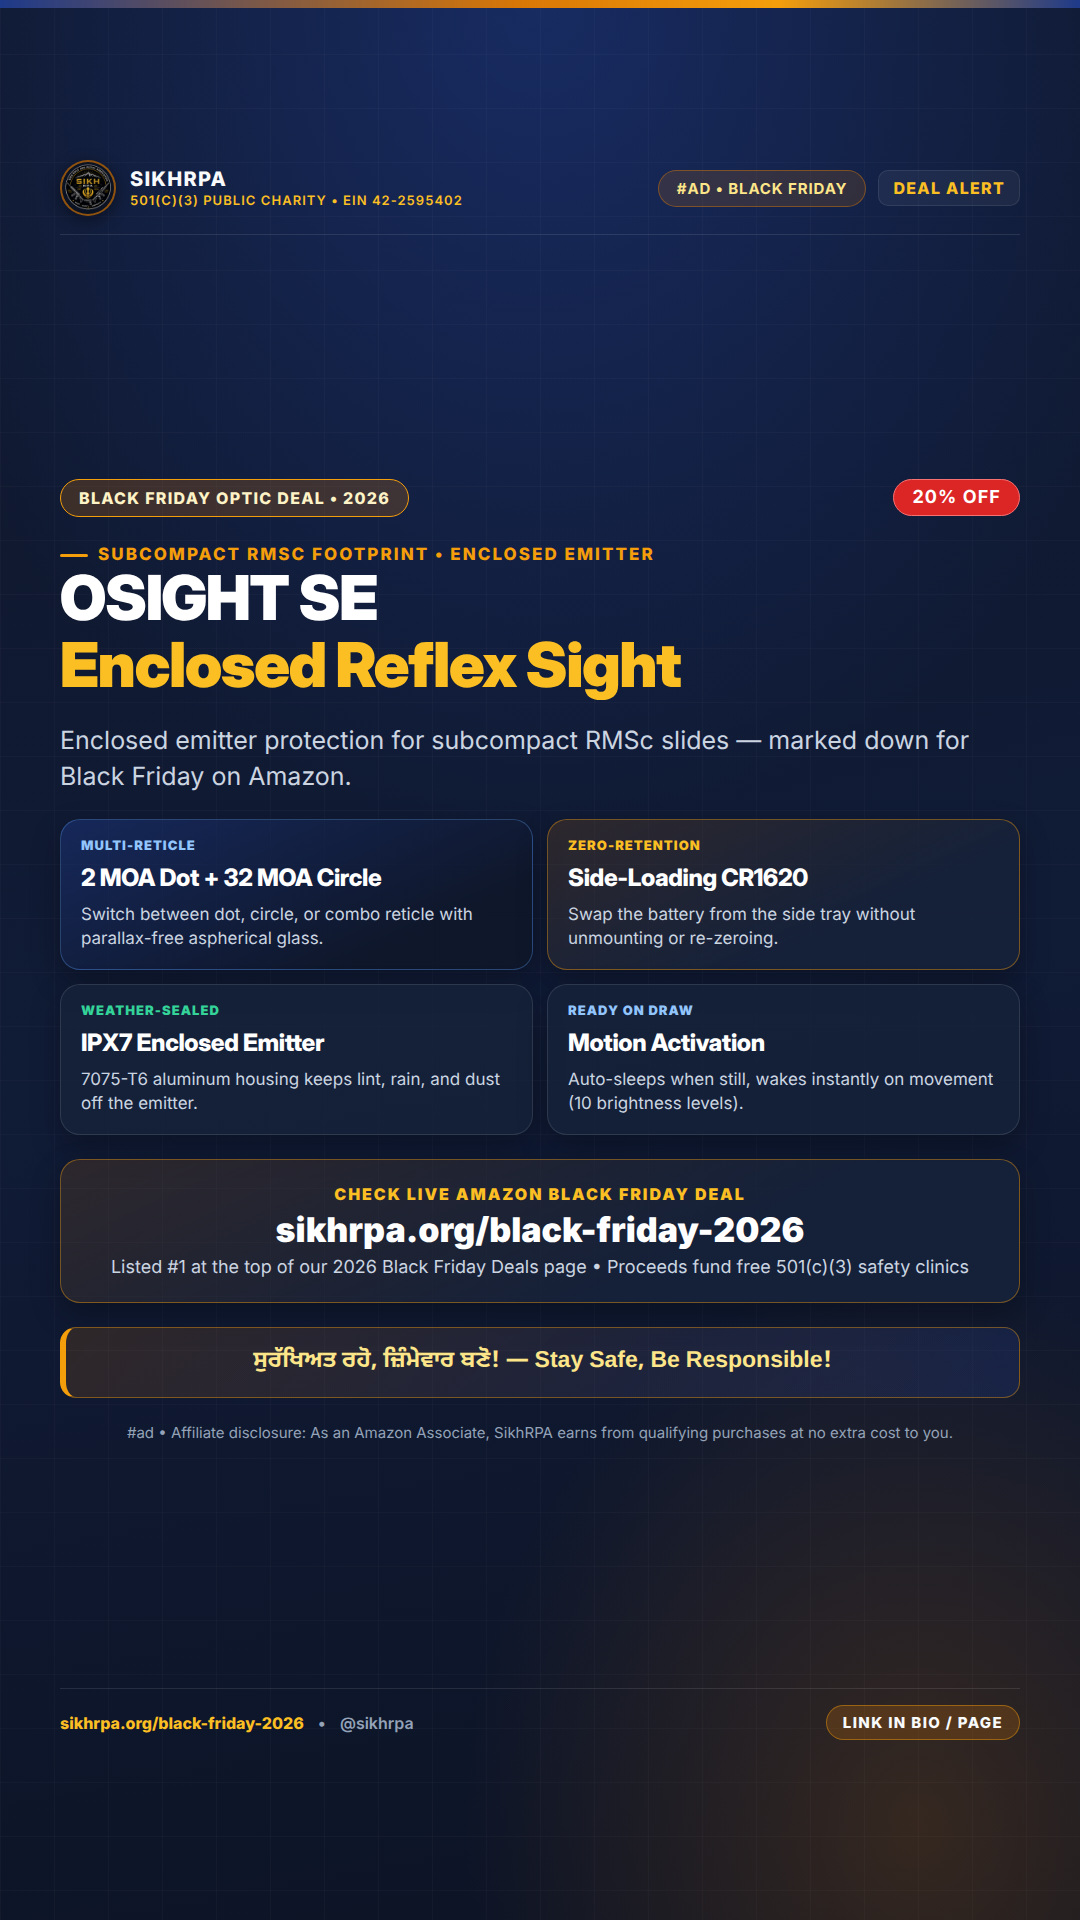
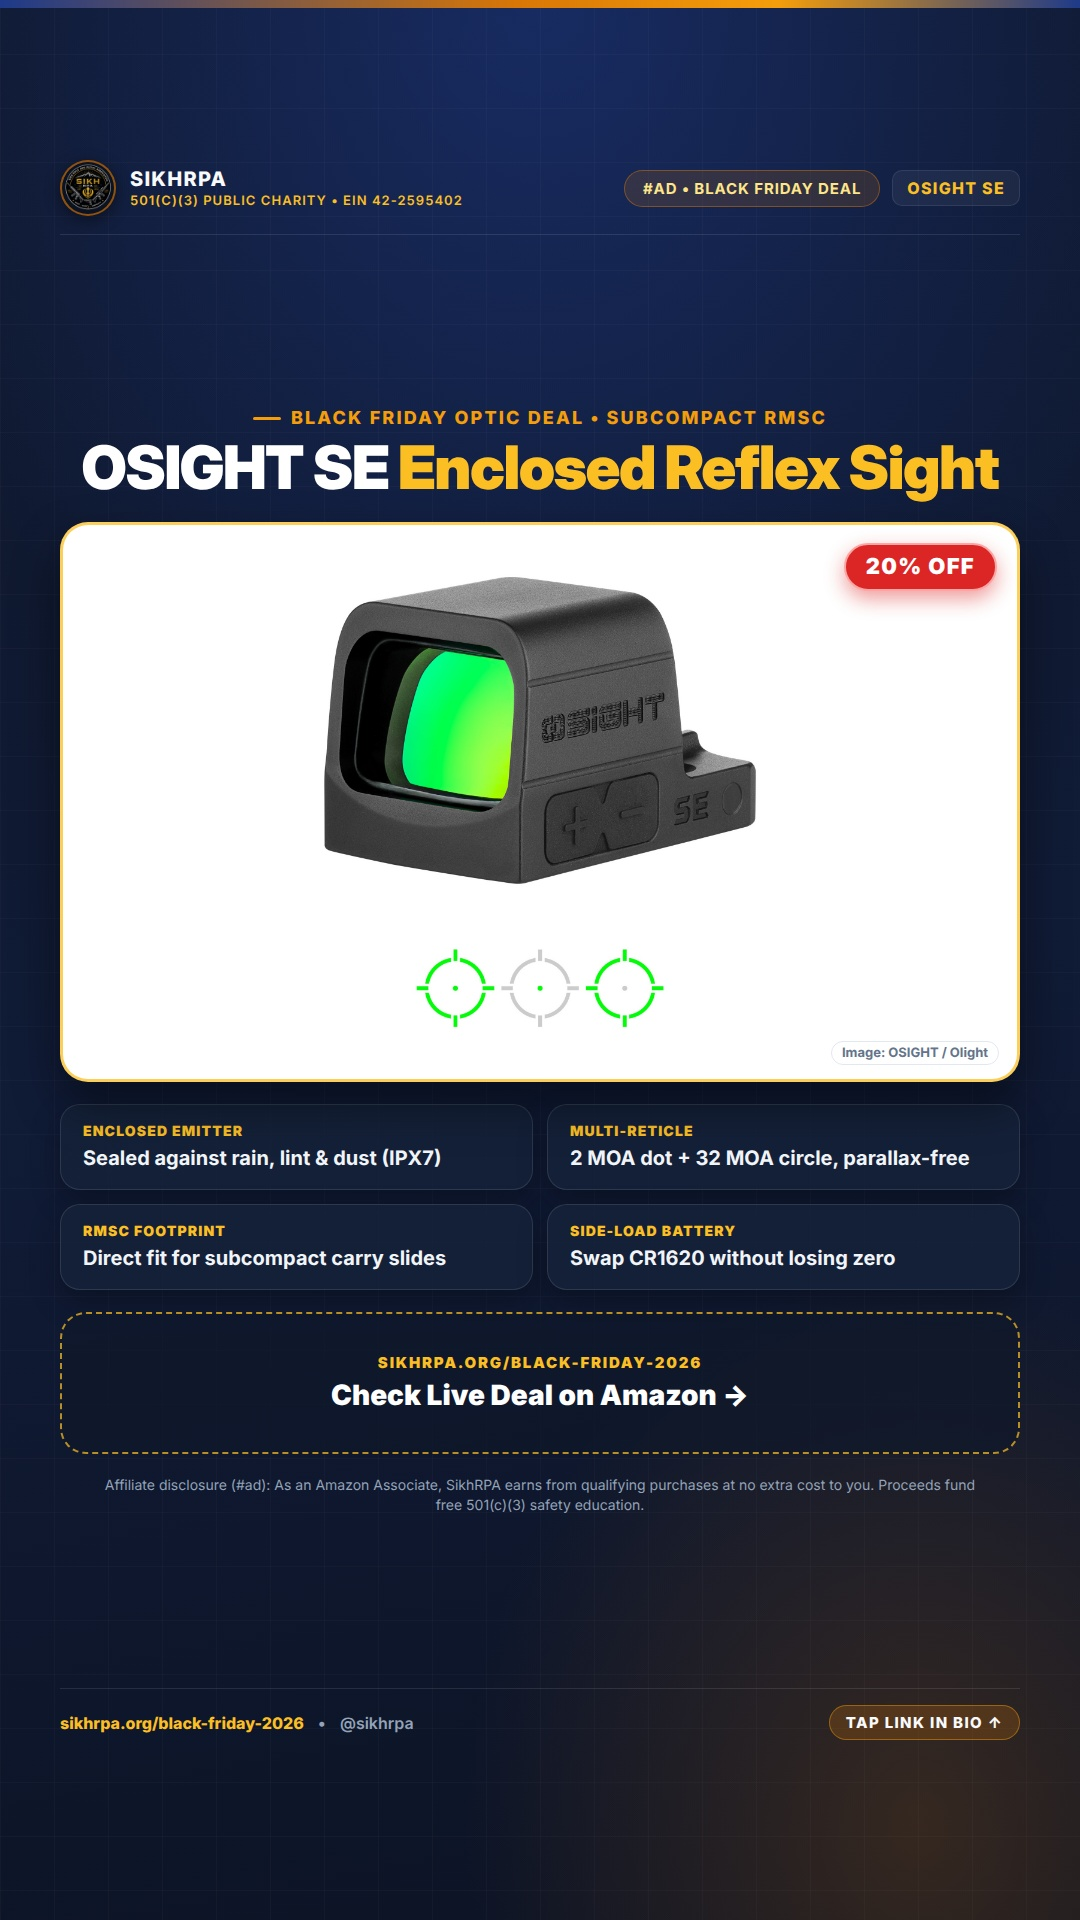
Add reusable product-photo deal Story generator and update OSIGHT SE Story

diff --git a/scripts/generate_deal_story.py b/scripts/generate_deal_story.py
@@ -1,0 +1,321 @@
+#!/usr/bin/env python3
+"""
+Reusable SikhRPA Single-Product Deal Story Generator (9:16, 1080x1920).
+
+Generates an on-brand Instagram Story graphic featuring an official
+manufacturer product photo (never Amazon-hosted imagery), discount badge,
+key specs grid, Link Sticker / CTA zone, and FTC + Amazon Associates disclosure.
+
+Outputs:
+  - posts/black-friday-2026/<slug>/<filename>.png
+  - posts/black-friday-2026/<slug>/jpg/<filename>.jpg
+  - media/jpg/<slug>/<filename>.jpg  (for auto_post.py / raw.githubusercontent.com)
+
+Example:
+    python3 scripts/generate_deal_story.py \
+      --slug bf-test-osight-se \
+      --filename story-01-osight-se.png \
+      --eyebrow "Black Friday Optic Deal • Subcompact RMSc" \
+      --title "OSIGHT SE" \
+      --subtitle "Enclosed Reflex Sight" \
+      --discount "20% OFF" \
+      --image "https://cdn.olightstore.com/image/se-gn-a8txty-1-lgsrmf.jpg" \
+      --image-credit "Image: OSIGHT / Olight" \
+      --spec "ENCLOSED EMITTER|Sealed against rain, lint & dust (IPX7)" \
+      --spec "MULTI-RETICLE|2 MOA dot + 32 MOA circle, parallax-free" \
+      --spec "RMSc FOOTPRINT|Direct fit for subcompact carry slides" \
+      --spec "SIDE-LOAD BATTERY|Swap CR1620 without losing zero" \
+      --cta-label "Check Live Deal on Amazon →" \
+      --slide-label "OSIGHT SE"
+"""
+
+from __future__ import annotations
+
+import argparse
+import base64
+import html
+import io
+import mimetypes
+import shutil
+import sys
+import urllib.request
+from pathlib import Path
+
+from PIL import Image, ImageChops
+from playwright.sync_api import sync_playwright
+
+SCRIPT_DIR = Path(__file__).resolve().parent
+sys.path.insert(0, str(SCRIPT_DIR))
+
+from generate_all import audit_policy_guardrails  # noqa: E402
+from styles import ROOT_DIR, build_slide_html  # noqa: E402
+
+OUT_ROOT = ROOT_DIR / "posts" / "black-friday-2026"
+MEDIA_JPG_ROOT = ROOT_DIR / "media" / "jpg"
+DISCLOSURE_SLIDE = (
+    "Affiliate disclosure (#ad): As an Amazon Associate, SikhRPA earns from qualifying "
+    "purchases at no extra cost to you. Proceeds fund free 501(c)(3) safety education."
+)
+
+
+def _trim_studio_margins(raw: bytes) -> tuple[bytes, str]:
+    """Auto-trim excessive near-white studio padding so the product fills the card cleanly."""
+    img = Image.open(io.BytesIO(raw))
+    rgb = img.convert("RGB")
+    bg = Image.new("RGB", rgb.size, rgb.getpixel((0, 0)))
+    diff = ImageChops.difference(rgb, bg).convert("L")
+    # Threshold out faint JPEG compression noise near the background color
+    mask = diff.point(lambda p: 255 if p > 14 else 0)
+    bbox = mask.getbbox()
+    if bbox:
+        x0, y0, x1, y1 = bbox
+        w, h = img.size
+        pad_x = int((x1 - x0) * 0.04)
+        pad_y = int((y1 - y0) * 0.04)
+        crop_box = (
+            max(0, x0 - pad_x),
+            max(0, y0 - pad_y),
+            min(w, x1 + pad_x),
+            min(h, y1 + pad_y),
+        )
+        img = img.crop(crop_box)
+    out = io.BytesIO()
+    fmt = "PNG" if img.mode in ("RGBA", "LA") else "JPEG"
+    if fmt == "JPEG":
+        img.convert("RGB").save(out, format="JPEG", quality=95)
+        return out.getvalue(), "image/jpeg"
+    img.save(out, format="PNG")
+    return out.getvalue(), "image/png"
+
+
+def load_image_data_uri(image_src: str) -> str:
+    """Load a local file or official manufacturer HTTPS image URL as a base64 data URI."""
+    if image_src.startswith(("http://", "https://")):
+        req = urllib.request.Request(
+            image_src,
+            headers={"User-Agent": "Mozilla/5.0 (compatible; SikhRPA-StoryBuilder/1.0)"},
+        )
+        with urllib.request.urlopen(req, timeout=20) as resp:
+            raw = resp.read()
+    else:
+        path = Path(image_src).expanduser().resolve()
+        if not path.is_file():
+            raise FileNotFoundError(f"Product image not found: {path}")
+        raw = path.read_bytes()
+
+    trimmed, ctype = _trim_studio_margins(raw)
+    encoded = base64.b64encode(trimmed).decode("ascii")
+    return f"data:{ctype};base64,{encoded}"
+
+
+def build_product_story_body(
+    *,
+    eyebrow: str,
+    title: str,
+    subtitle: str,
+    discount: str,
+    image_data_uri: str,
+    image_credit: str,
+    specs: list[tuple[str, str]],
+    cta_label: str,
+    cta_subtext: str,
+) -> str:
+    spec_cards = []
+    for label, detail in specs[:4]:
+        spec_cards.append(
+            f"""
+            <div class="card" style="padding:18px 22px;display:flex;flex-direction:column;gap:5px;">
+              <div style="font-size:14px;font-weight:900;letter-spacing:0.08em;color:#fbbf24;text-transform:uppercase;">
+                {html.escape(label)}
+              </div>
+              <div style="font-size:20px;font-weight:700;line-height:1.3;color:#f1f5f9;">
+                {html.escape(detail)}
+              </div>
+            </div>
+            """
+        )
+    specs_grid = (
+        f'<div style="display:grid;grid-template-columns:1fr 1fr;gap:14px;width:100%;">{"".join(spec_cards)}</div>'
+        if spec_cards
+        else ""
+    )
+
+    credit_html = (
+        f"""
+        <div style="position:absolute;bottom:14px;right:18px;font-size:13px;font-weight:700;
+                    color:#64748b;background:rgba(255,255,255,0.92);padding:3px 10px;
+                    border-radius:999px;border:1px solid #e2e8f0;">
+          {html.escape(image_credit)}
+        </div>
+        """
+        if image_credit
+        else ""
+    )
+
+    return f"""
+    <div style="display:flex;flex-direction:column;gap:22px;width:100%;">
+      <div style="display:flex;flex-direction:column;align-items:center;text-align:center;gap:8px;">
+        <div class="eyebrow" style="font-size:18px;">{html.escape(eyebrow)}</div>
+        <h1 class="h1-hero" style="font-size:60px;line-height:1.05;margin:0;">
+          {html.escape(title)} <span class="gold">{html.escape(subtitle)}</span>
+        </h1>
+      </div>
+
+      <div style="position:relative;width:100%;height:560px;background:#ffffff;border-radius:28px;
+                  border:3px solid rgba(251,191,36,0.75);box-shadow:0 22px 48px rgba(0,0,0,0.45);
+                  display:flex;align-items:center;justify-content:center;padding:34px 44px;overflow:hidden;">
+        <img src="{image_data_uri}" alt="{html.escape(title)}"
+             style="max-width:100%;max-height:100%;object-fit:contain;display:block;"/>
+        <div style="position:absolute;top:18px;right:20px;background:#dc2626;color:#ffffff;
+                    font-size:22px;font-weight:900;letter-spacing:0.06em;text-transform:uppercase;
+                    padding:9px 20px;border-radius:999px;border:2px solid #fca5a5;
+                    box-shadow:0 8px 20px rgba(220,38,38,0.45);">
+          {html.escape(discount)}
+        </div>
+        {credit_html}
+      </div>
+
+      {specs_grid}
+
+      <div class="sticker-zone" style="width:100%;min-height:142px;padding:18px 24px;gap:6px;">
+        <div style="font-size:15px;font-weight:900;letter-spacing:0.12em;color:#fbbf24;text-transform:uppercase;">
+          {html.escape(cta_subtext)}
+        </div>
+        <div style="font-size:28px;font-weight:900;color:#ffffff;">{html.escape(cta_label)}</div>
+      </div>
+
+      <div style="font-size:14px;line-height:1.4;color:#94a3b8;text-align:center;max-width:900px;margin:0 auto;">
+        {DISCLOSURE_SLIDE}
+      </div>
+    </div>
+    """
+
+
+def render_deal_story(args: argparse.Namespace) -> int:
+    specs: list[tuple[str, str]] = []
+    for raw in args.spec or []:
+        if "|" in raw:
+            k, v = raw.split("|", 1)
+            specs.append((k.strip(), v.strip()))
+        else:
+            specs.append(("HIGHLIGHT", raw.strip()))
+
+    image_data_uri = load_image_data_uri(args.image)
+
+    body_html = build_product_story_body(
+        eyebrow=args.eyebrow,
+        title=args.title,
+        subtitle=args.subtitle,
+        discount=args.discount,
+        image_data_uri=image_data_uri,
+        image_credit=args.image_credit,
+        specs=specs,
+        cta_label=args.cta_label,
+        cta_subtext=args.cta_subtext,
+    )
+
+    # Audit visible text (without the base64 payload) against Meta policy guardrails
+    audit_post = {
+        "number": args.slug,
+        "slug": args.slug,
+        "title": f"{args.title} {args.subtitle}",
+        "caption": f"{args.eyebrow} {args.cta_label} {args.cta_subtext}",
+        "hashtags": "",
+        "story_prompt": "",
+        "slides": [
+            {
+                "filename": args.filename,
+                "body_html": " ".join(
+                    [args.eyebrow, args.title, args.subtitle, args.discount, args.cta_label]
+                    + [f"{k} {v}" for k, v in specs]
+                ),
+            }
+        ],
+    }
+    issues = audit_policy_guardrails([audit_post])
+    if issues:
+        print("POLICY GUARDRAIL FAILURES:")
+        for issue in issues:
+            print("  -", issue)
+        return 1
+    print("✓ Meta policy guardrail audit passed.")
+
+    out_dir = OUT_ROOT / args.slug
+    jpg_dir = out_dir / "jpg"
+    media_dir = MEDIA_JPG_ROOT / args.slug
+    jpg_dir.mkdir(parents=True, exist_ok=True)
+    media_dir.mkdir(parents=True, exist_ok=True)
+
+    full_html = build_slide_html(
+        body_html=body_html,
+        width=1080,
+        height=1920,
+        pill_text=args.pill_text,
+        slide_label=args.slide_label,
+        footer_url=args.footer_url,
+        footer_right=args.footer_right,
+        theme=args.theme,
+        frame_variant="story-frame",
+    )
+
+    chrome = shutil.which("google-chrome") or shutil.which("chromium")
+    kwargs: dict = {"args": ["--no-sandbox", "--disable-gpu", "--font-render-hinting=none"]}
+    if chrome:
+        kwargs["executable_path"] = chrome
+
+    with sync_playwright() as p:
+        browser = p.chromium.launch(**kwargs)
+        page = browser.new_context(device_scale_factor=1).new_page()
+        page.set_viewport_size({"width": 1080, "height": 1920})
+        page.set_content(full_html, wait_until="load")
+        page.evaluate("() => document.fonts.ready")
+        overflow = page.evaluate(
+            """() => {
+                const c = document.querySelector('.canvas');
+                const b = document.querySelector('.slide-body');
+                return { c: c.scrollHeight - c.clientHeight, b: b.scrollHeight - b.clientHeight };
+            }"""
+        )
+        png_path = out_dir / args.filename
+        page.screenshot(path=str(png_path), type="png")
+        browser.close()
+
+    if overflow["c"] > 2 or overflow["b"] > 2:
+        print(f"⚠ OVERFLOW DETECTED: canvas={overflow['c']}px body={overflow['b']}px")
+        return 2
+
+    jpg_name = png_path.with_suffix(".jpg").name
+    img_rgb = Image.open(png_path).convert("RGB")
+    img_rgb.save(jpg_dir / jpg_name, quality=95)
+    img_rgb.save(media_dir / jpg_name, quality=95)
+
+    print(f"✓ Rendered PNG:       {png_path}")
+    print(f"✓ Exported Story JPG: {jpg_dir / jpg_name}")
+    print(f"✓ Exported Media JPG: {media_dir / jpg_name}")
+    print("✓ Zero overflow confirmed.")
+    return 0
+
+
+def parse_args() -> argparse.Namespace:
+    ap = argparse.ArgumentParser(description="Generate a 9:16 SikhRPA product-deal Instagram Story with product photo.")
+    ap.add_argument("--slug", required=True, help="Folder slug under posts/black-friday-2026/ and media/jpg/")
+    ap.add_argument("--filename", required=True, help="Output PNG filename (e.g. story-01-osight-se.png)")
+    ap.add_argument("--eyebrow", required=True, help="Top category/deal eyebrow text")
+    ap.add_argument("--title", required=True, help="Primary product name")
+    ap.add_argument("--subtitle", default="", help="Gold-accented product subtitle")
+    ap.add_argument("--discount", required=True, help="Discount badge text (e.g. '20% OFF' — no static $ prices)")
+    ap.add_argument("--image", required=True, help="Local path or official manufacturer HTTPS image URL")
+    ap.add_argument("--image-credit", default="", help="Manufacturer image credit (e.g. 'Image: OSIGHT / Olight')")
+    ap.add_argument("--spec", action="append", default=[], help="Spec item as 'LABEL|Detail' (up to 4)")
+    ap.add_argument("--cta-label", default="Check Live Deal on Amazon →", help="Main CTA text")
+    ap.add_argument("--cta-subtext", default="Link in Bio • sikhrpa.org/black-friday-2026", help="CTA eyebrow text")
+    ap.add_argument("--pill-text", default="#ad • Black Friday Deal", help="Top-left header pill")
+    ap.add_argument("--slide-label", default="DEAL ALERT", help="Top-right slide label")
+    ap.add_argument("--footer-url", default="sikhrpa.org/black-friday-2026", help="Footer URL")
+    ap.add_argument("--footer-right", default="TAP LINK IN BIO ↑", help="Footer right label")
+    ap.add_argument("--theme", default="royal", help="Slide color theme (royal, default, gold)")
+    return ap.parse_args()
+
+
+if __name__ == "__main__":
+    raise SystemExit(render_deal_story(parse_args()))
